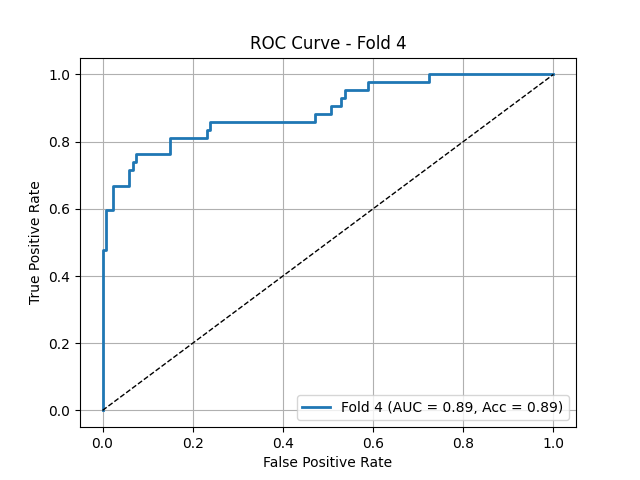
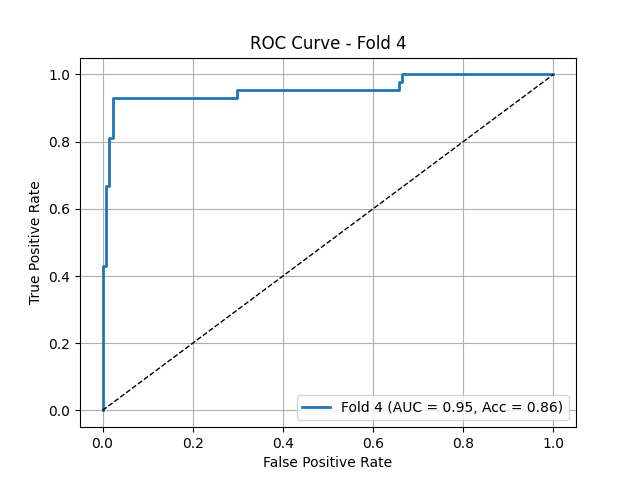
new augmentation

diff --git a/dataset_washu2.py b/dataset_washu2.py
@@ -95,7 +95,8 @@ from albumentations.pytorch import ToTensorV2
 train_transform = A.Compose([
     # Ensure consistent input size
     A.PadIfNeeded(min_height=256, min_width=256, border_mode=0, value=0, mask_value=0),
-    A.RandomResizedCrop(height=256, width=256, scale=(0.9, 1.0), ratio=(0.95, 1.05), p=0.8),
+    #A.RandomResizedCrop(height=256, width=256, scale=(0.9, 1.0), ratio=(0.95, 1.05), p=0.8),
+	A.Resize(256, 256),
     
     # Geometry-based augmentations
     A.HorizontalFlip(p=0.5),
@@ -117,10 +118,10 @@ train_transform = A.Compose([
 
     # Occasionally sharpen or blur (mimics focus variability)
     A.OneOf([
-        A.MotionBlur(blur_limit=3),
-        A.MedianBlur(blur_limit=3),
-        A.Sharpen(alpha=(0.1, 0.3)),
-    ], p=0.3),
+			A.MotionBlur(blur_limit=1),        # Very light motion blur
+			A.MedianBlur(blur_limit=1),        # Very slight smoothing
+			A.Sharpen(alpha=(0.01, 0.02)),     # Barely noticeable sharpening
+		], p=0.4),
     
     A.Normalize(mean=(0.5,), std=(0.5,)),  # Assuming grayscale
     ToTensorV2()
@@ -300,7 +301,7 @@ if __name__ == '__main__':
 		train_dataset = Classificaiton_Dataset(phase = 'train', k_fold=5, fold= i)
 		train_dataset = Classificaiton_Dataset(phase = 'val', k_fold=5, fold= i)
 
-	train_dataset = Classificaiton_Dataset(phase = 'test', k_fold=5, fold= 0)
+	train_dataset = Classificaiton_Dataset(phase = 'train', k_fold=5, fold= 0)
 	print("train dataset size: ", len(train_dataset))
 
 
